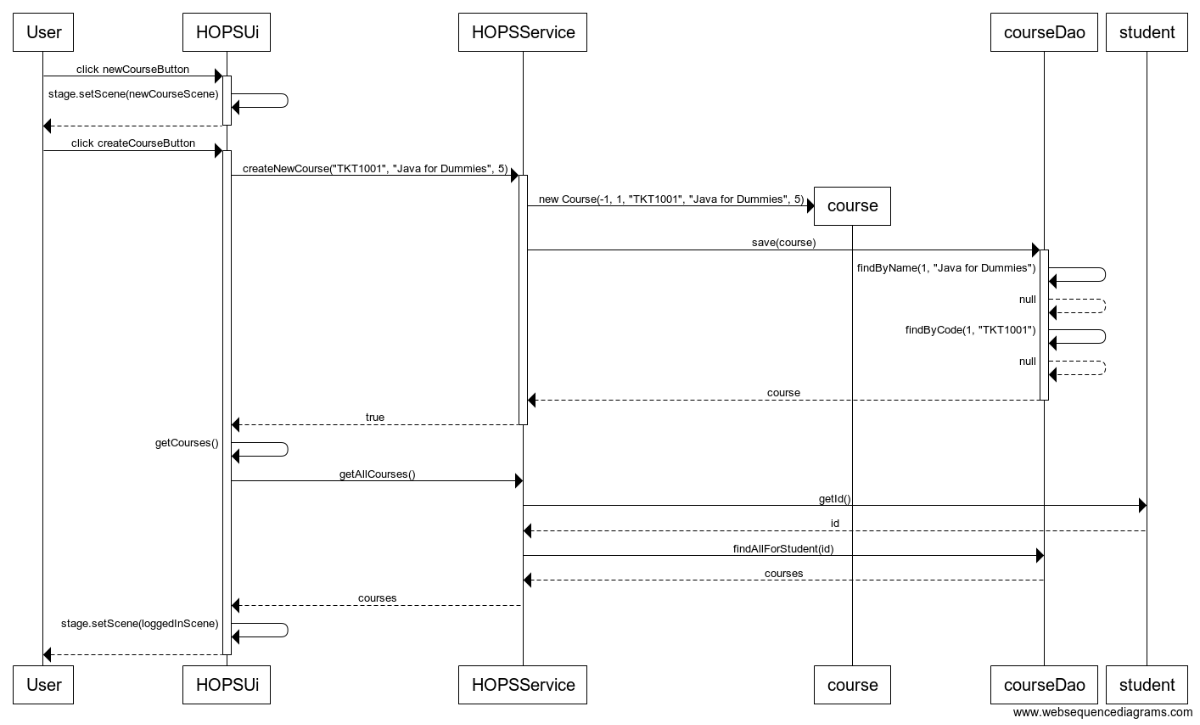
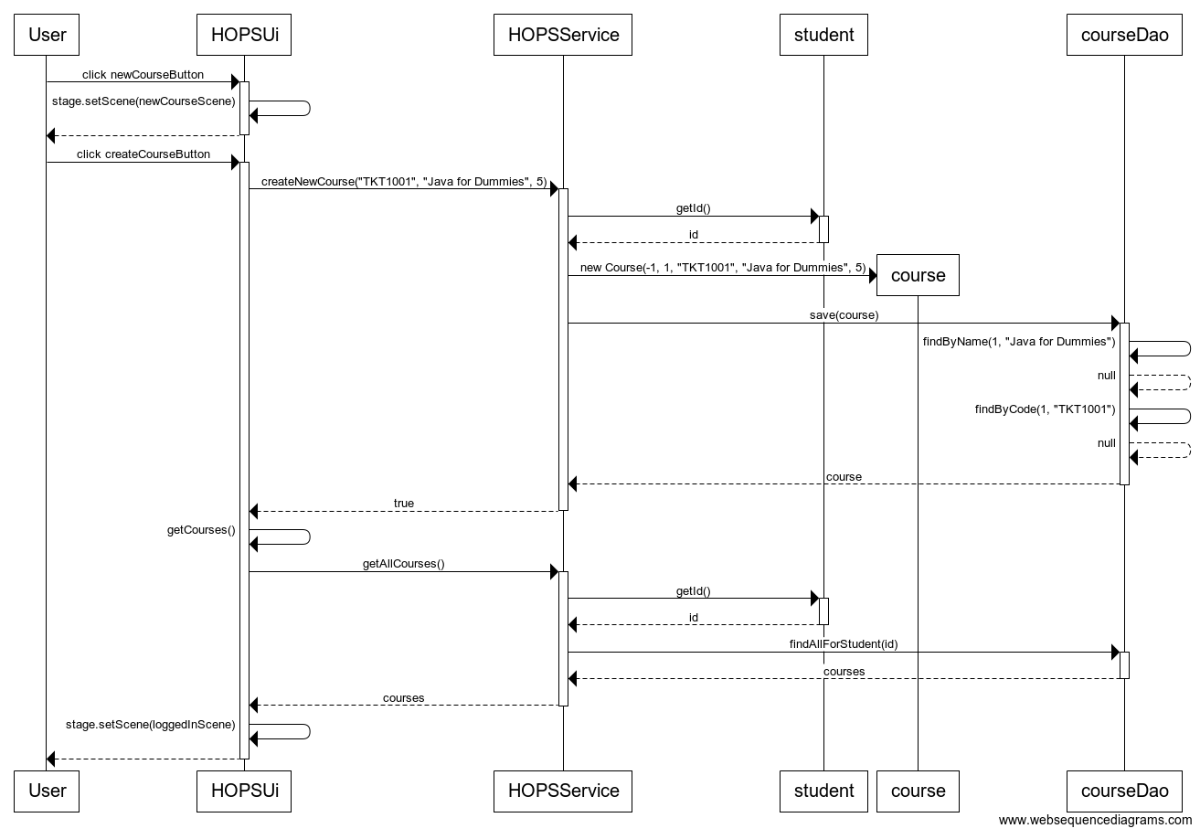
testausdokumentin päivitys ja sekvenssikaavion korjaus

diff --git a/dokumentointi/testausdokumentti.md b/dokumentointi/testausdokumentti.md
@@ -14,7 +14,7 @@ Käyttöliittymää lukuunottamatta testausten rivi- ja haarautumakattavuus ovat
 
 ## Järjestelmätestaus
 
-Sovelluksen toimintaa on testattu Linux-ympäristössä käyttöohjeen mukaisesti, kun käynnistyshakemistossa on *config.properties*-tiedosto.
+Sovelluksen toimintaa on testattu Linux- ja Windows 10 -järjestelmissä, jotka oli varustettu Javan 8:lla versiolla, käyttöohjeen mukaisesti, kun käynnistyshakemistossa on *config.properties*-tiedosto.
 
 Sovelluksen toimintaa on testattu, kun tietojen tallennusta varten oleva tietokanta on valmiiksi olemassa, sekä kun tietokantaa ei ole, jolloin se luodaan automaattisesti.
 
